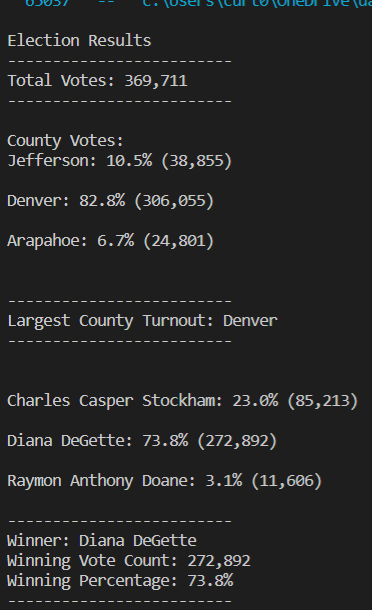
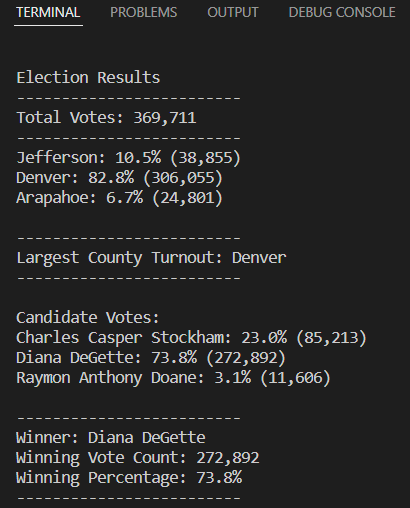
Completed challenge tasks related to adding county metrics to ouputs

diff --git a/PyPoll_Challenge.py b/PyPoll_Challenge.py
@@ -102,7 +102,7 @@ with open(file_to_save, "w") as txt_file:
         county_vote_percentage = (float(county_vote_count) / float(total_votes)) * 100
 
          # 6d: Print the county results to the terminal.
-        county_results = (f"{county_name}: {county_vote_percentage:.1f}% ({county_vote_count:,})\n")
+        county_results = (f"{county_name}: {county_vote_percentage:.1f}% ({county_vote_count:,})")
         print(county_results)
 
         # 6e: Save the county votes to a text file.
@@ -115,9 +115,11 @@ with open(file_to_save, "w") as txt_file:
 
     # 7: Print the county with the largest turnout to the terminal.
     winning_county_summary = (
-        f"\n-------------------------\n"
-        f"Largest County Turnout: {winning_county}\n"
-        f"-------------------------\n\n")
+        f"""\n-------------------------
+Largest County Turnout: {winning_county}
+-------------------------
+
+Candidate Votes:""")
     print(winning_county_summary)
 
 
@@ -131,7 +133,7 @@ with open(file_to_save, "w") as txt_file:
         votes = candidate_votes.get(candidate_name)
         vote_percentage = float(votes) / float(total_votes) * 100
         candidate_results = (
-            f"{candidate_name}: {vote_percentage:.1f}% ({votes:,})\n")
+            f"{candidate_name}: {vote_percentage:.1f}% ({votes:,})")
 
         # Print each candidate's voter count and percentage to the
         # terminal.
@@ -147,11 +149,12 @@ with open(file_to_save, "w") as txt_file:
 
     # Print the winning candidate (to terminal)
     winning_candidate_summary = (
-        f"-------------------------\n"
-        f"Winner: {winning_candidate}\n"
-        f"Winning Vote Count: {winning_count:,}\n"
-        f"Winning Percentage: {winning_percentage:.1f}%\n"
-        f"-------------------------\n")
+    f"""\n-------------------------
+Winner: {winning_candidate}
+Winning Vote Count: {winning_count:,}
+Winning Percentage: {winning_percentage:.1f}%
+-------------------------""")
+
     print(winning_candidate_summary)
 
     # Save the winning candidate's name to the text file
